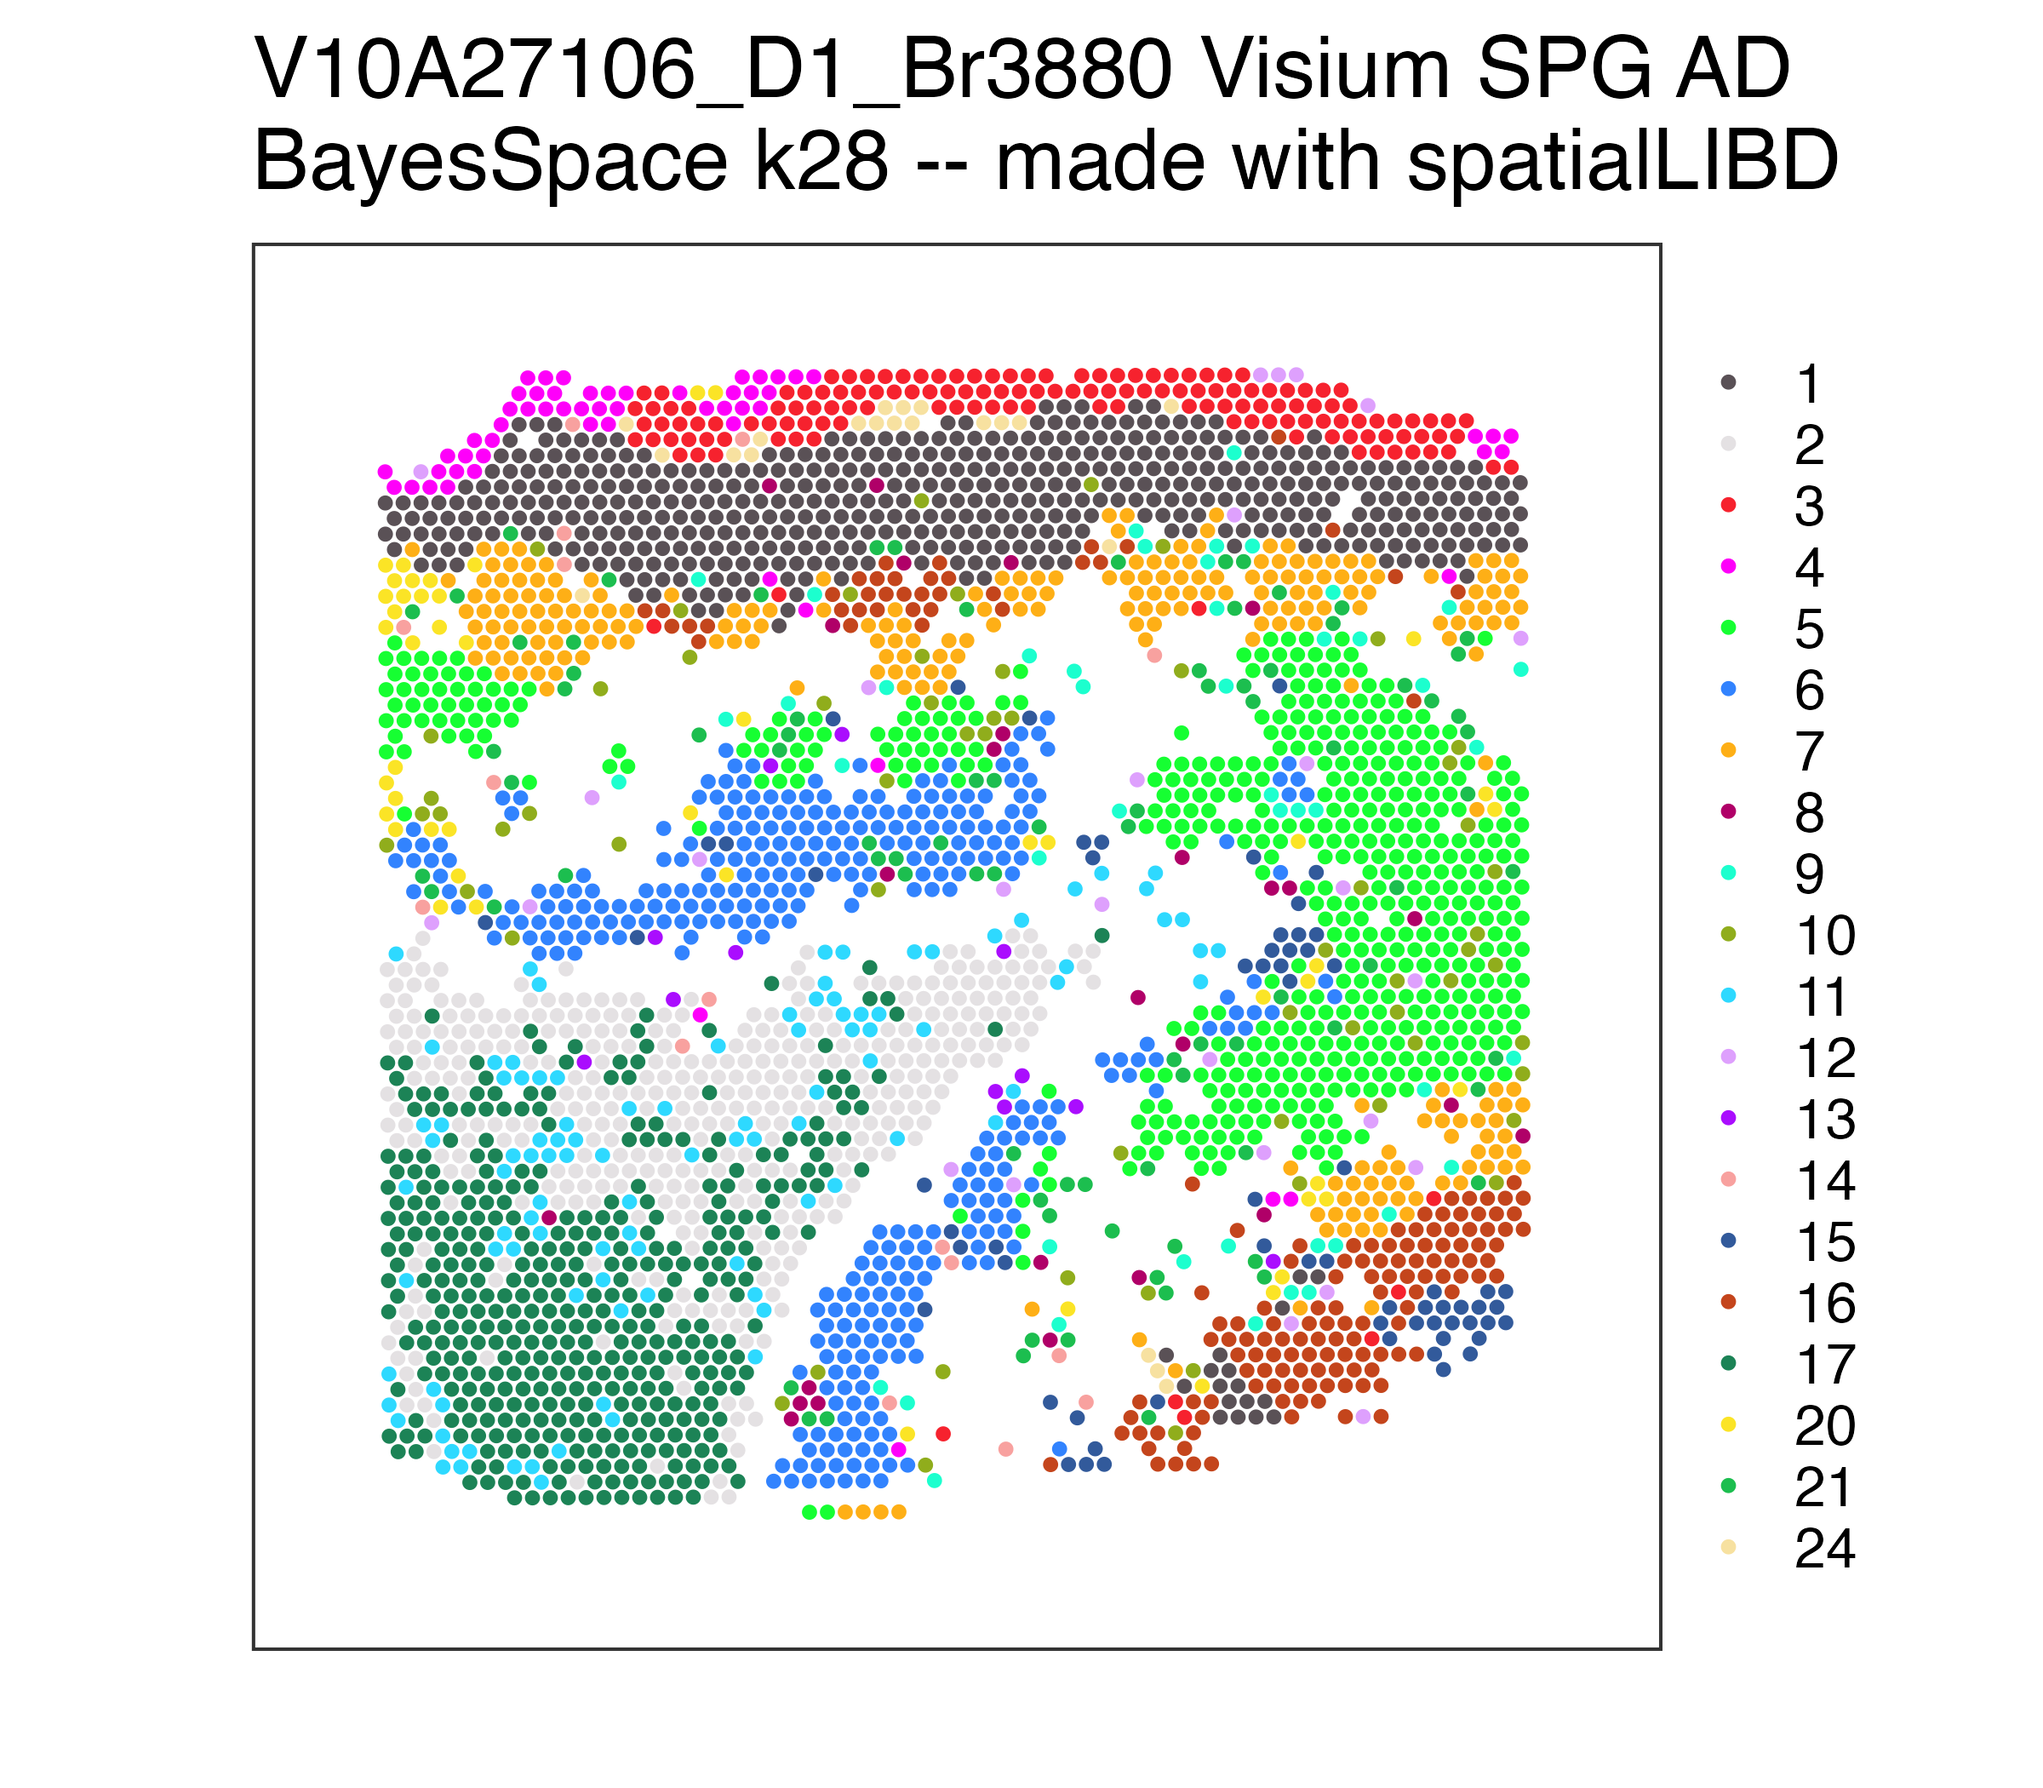
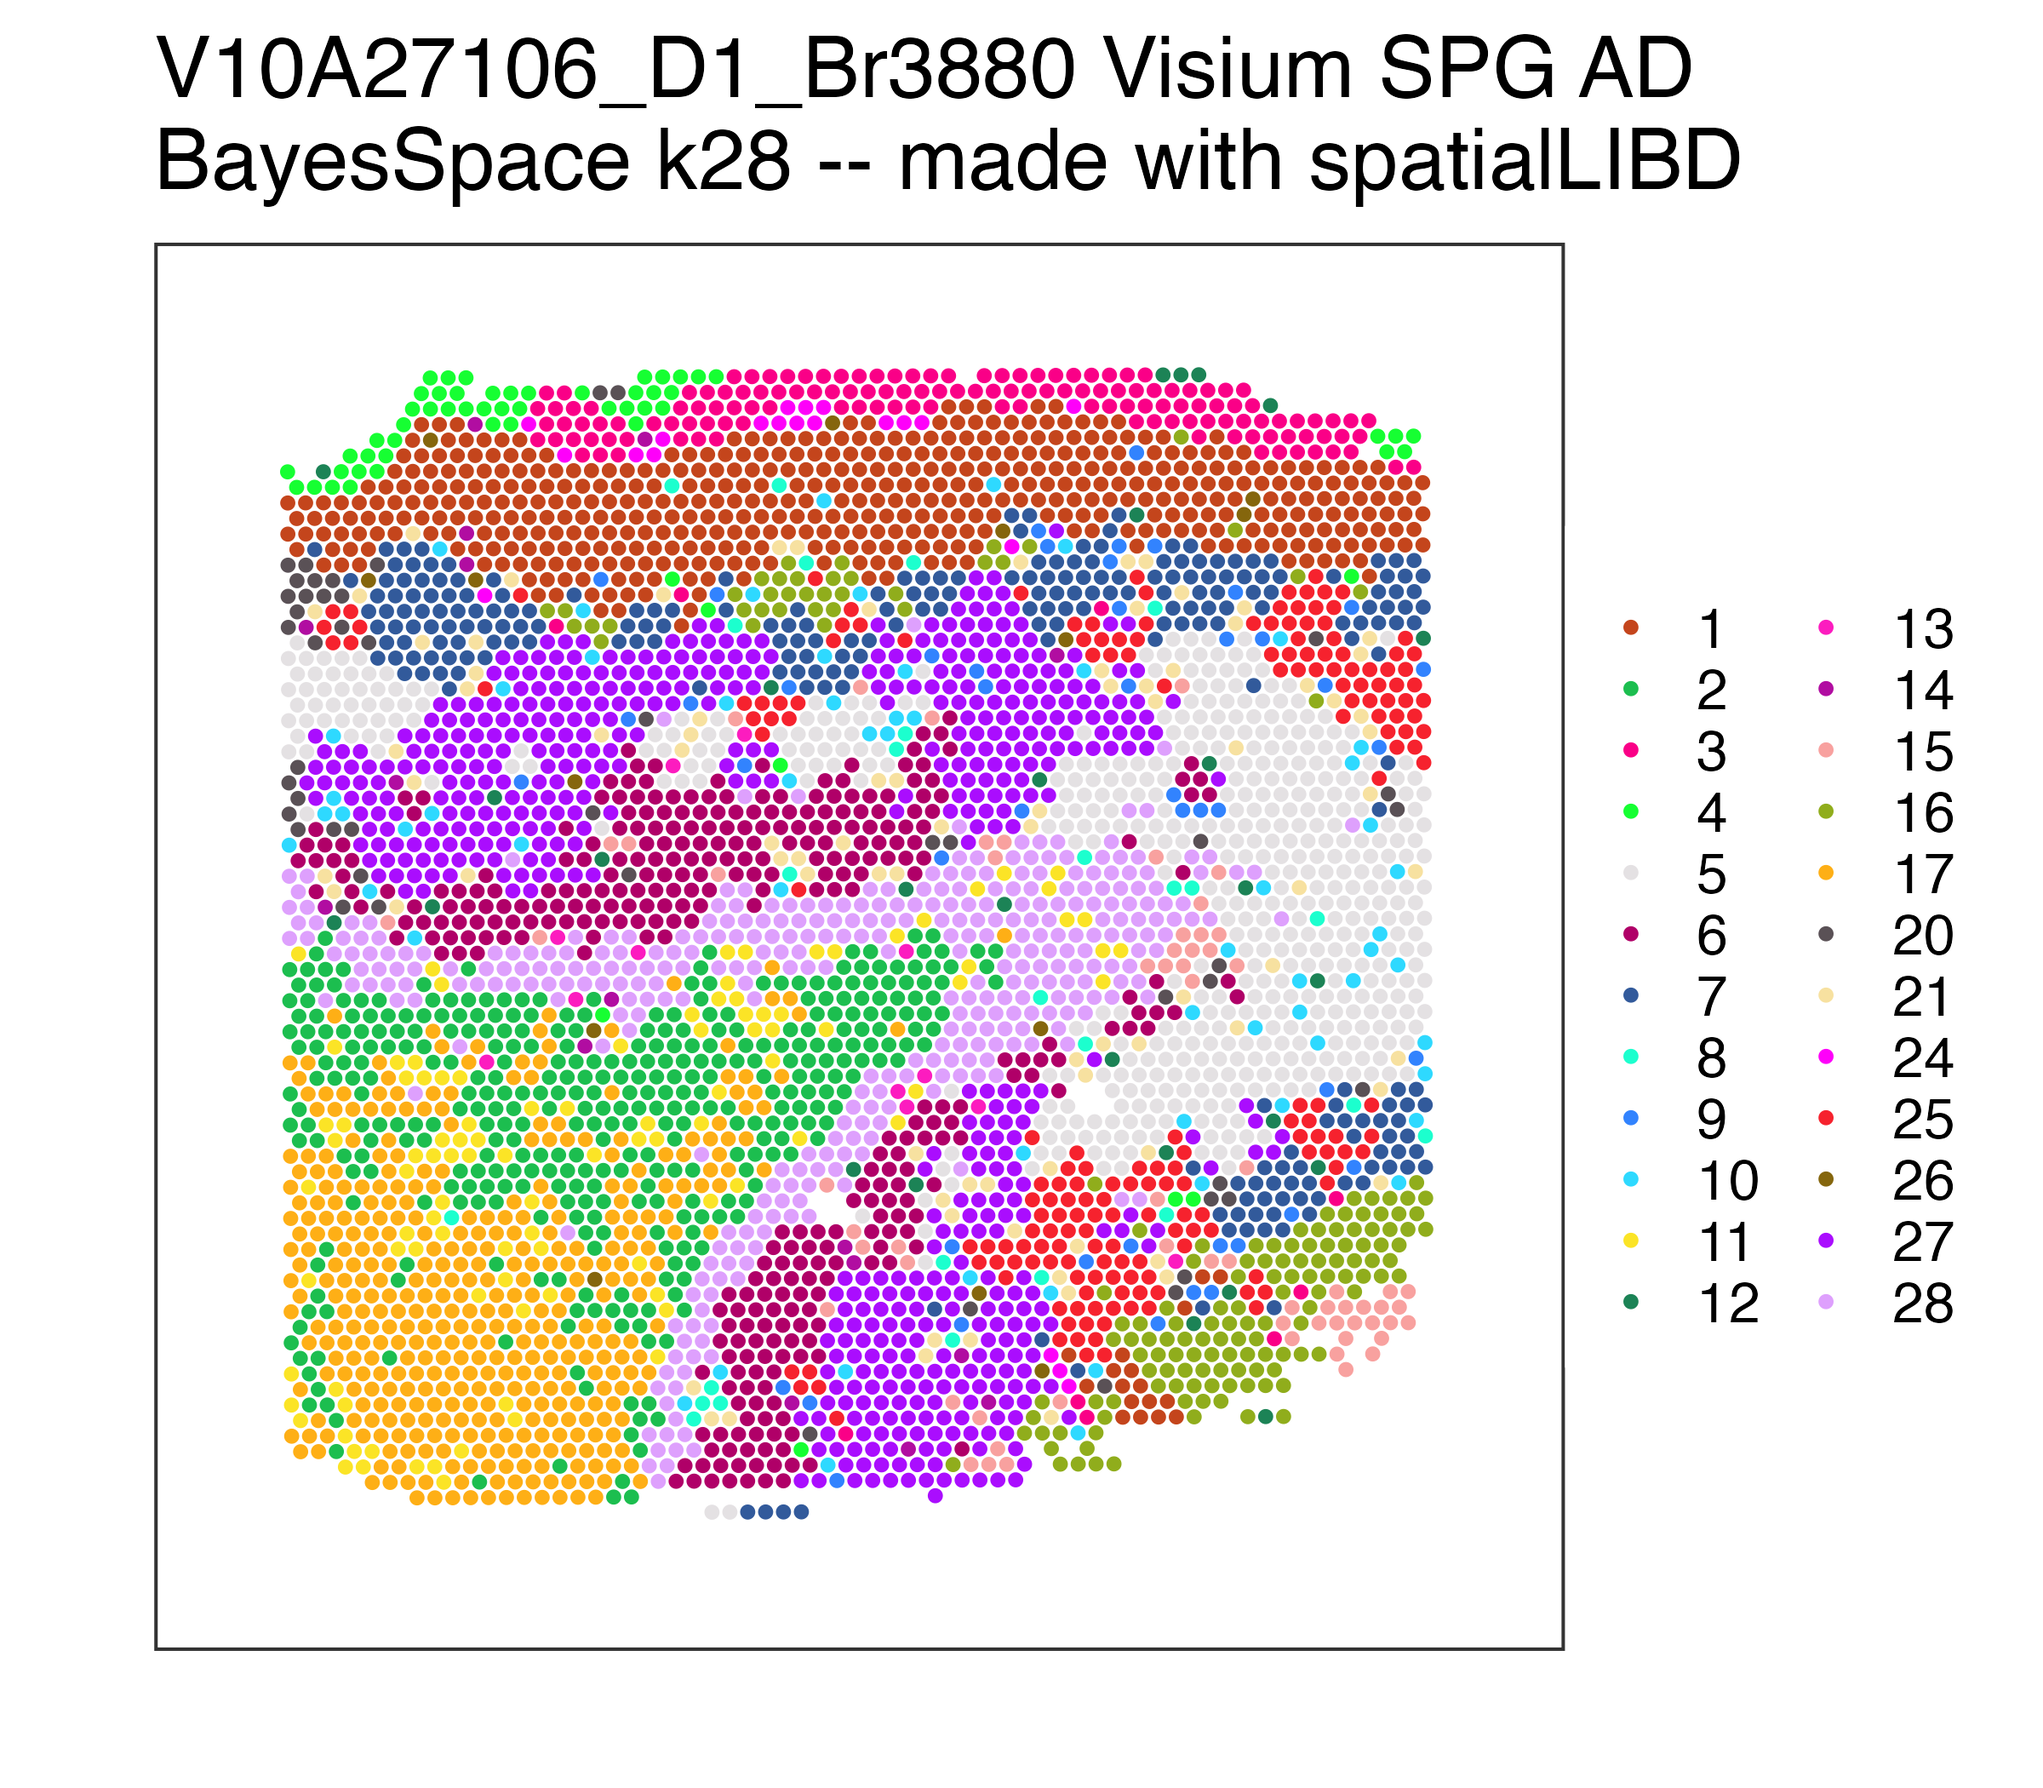
Fix the BayesSpace k = 28 colors. Some spots had no colors. Now it matches what you see on the spatialLIBD apps

diff --git a/README.md b/README.md
@@ -341,12 +341,14 @@ p_pathology
 <a href="https://libd.shinyapps.io/spatialDLPFC_Visium_Sp_pathology"><img src="http://research.libd.org/Visium_SPG_AD/img/Br3880_D1_pathology.png" width="800px" align="center" /></a>
 
 ``` r
-## Repeat but for Sp_BayesSpace
+## Repeat but for BayesSpace at k = 28 (max 28 clusters, can be less)
+k_observed <- unique(spe$BayesSpace_harmony_k28)
 p_BayesSpace <- spatialLIBD::vis_clus(
     spe = spe,
     clustervar = "BayesSpace_harmony_k28",
     sampleid = "V10A27106_D1_Br3880",
     spatial = FALSE,
+    colors = setNames(Polychrome::palette36.colors(length(k_observed)), k_observed),
     ... = " Visium SPG AD\nBayesSpace k28 -- made with spatialLIBD"
 )
 p_BayesSpace
